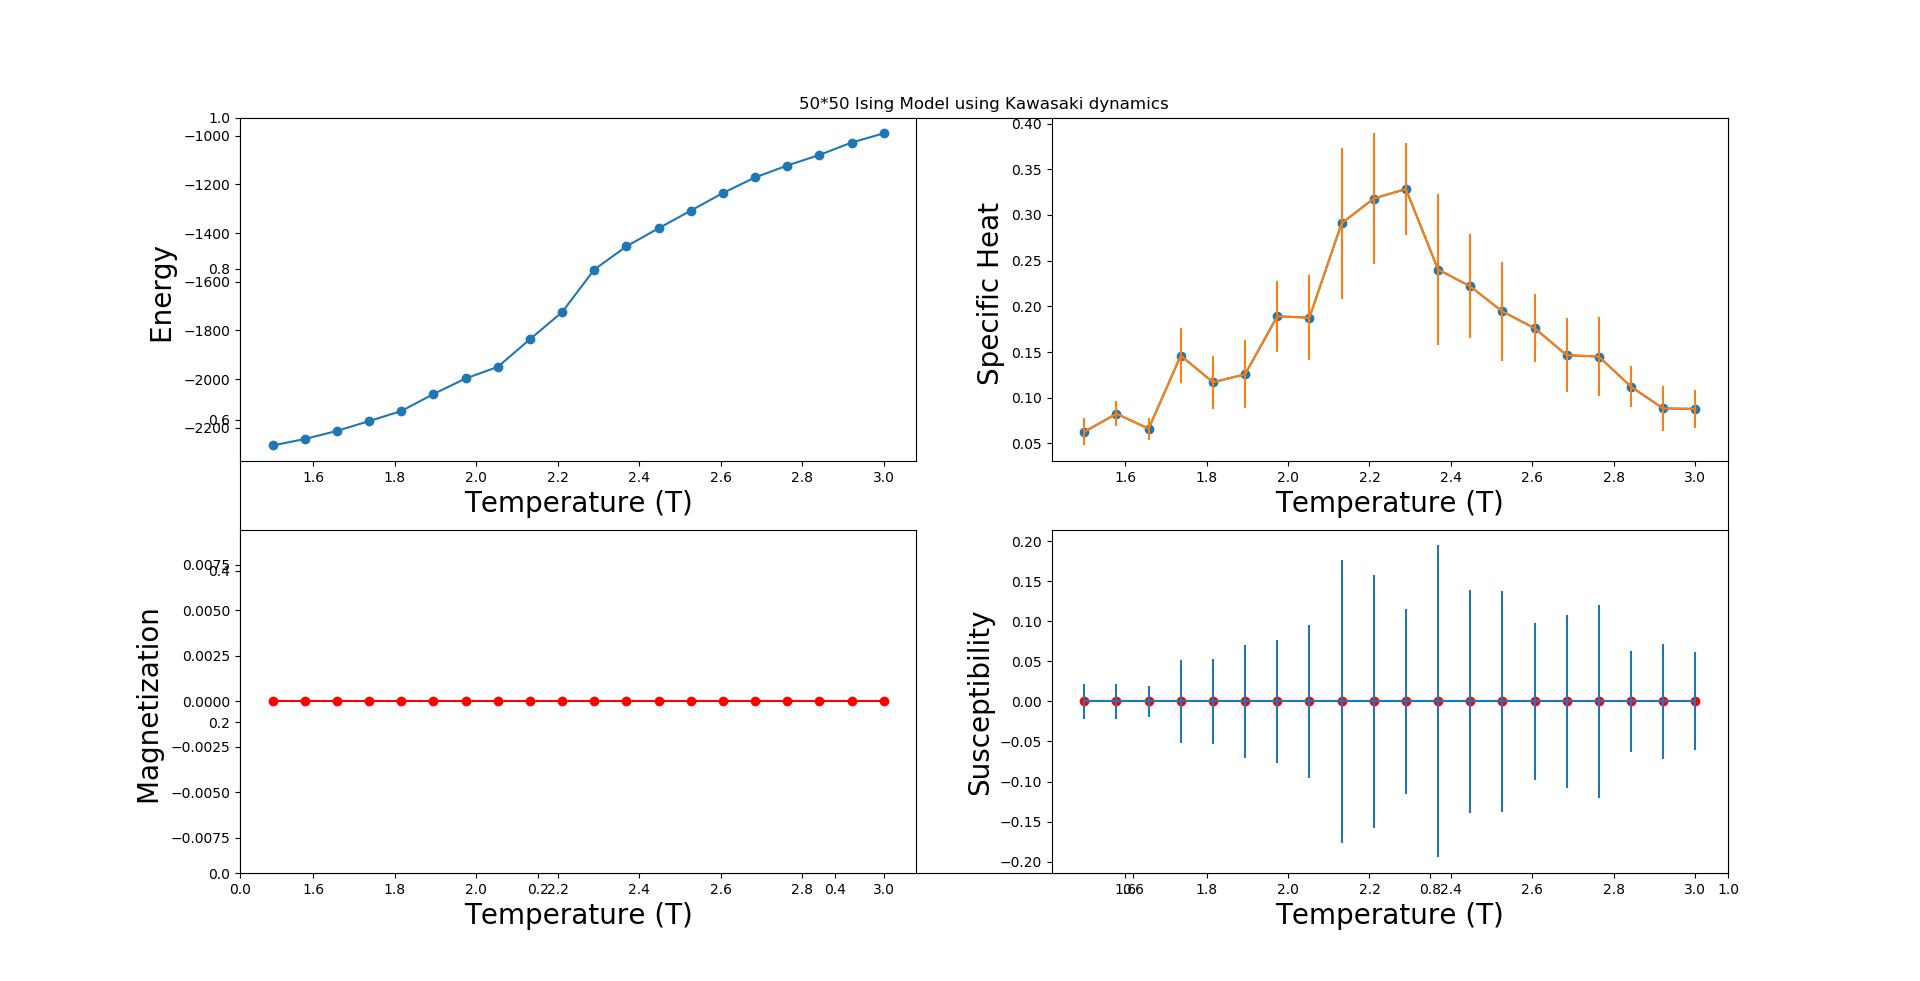
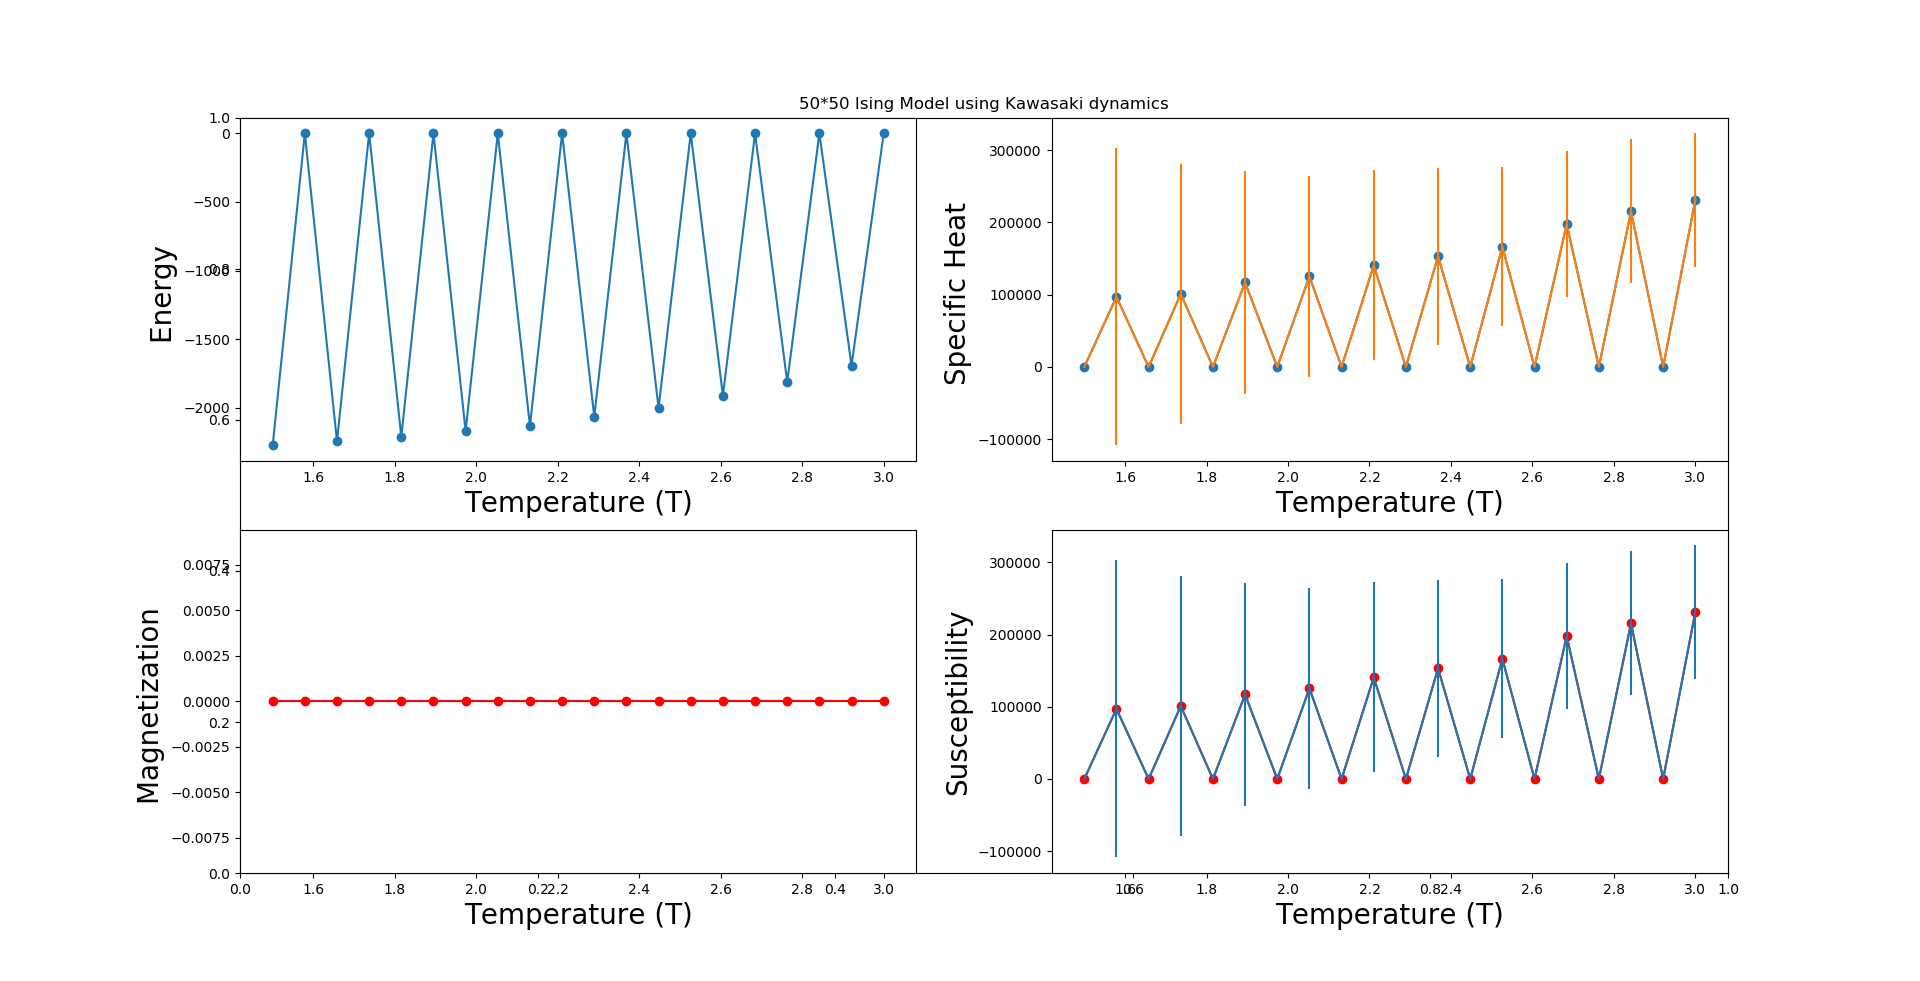
ITS ALIVE

diff --git a/main.py b/main.py
@@ -56,10 +56,10 @@ class Ising(object):
         self.equ(100)
         print(self.T)
         Es = np.zeros(n/10,dtype=float)
-        #Es[0] = self.totalEnergy()
-        Ms = np.zeros(n,dtype=float)
-        #Ms[0] = self.totalM()
-        for i in range(0,n):
+        Es[0] = self.totalEnergy()
+        Ms = np.zeros(n/10,dtype=float)
+        Ms[0] = self.totalM()
+        for i in range(1,n):
             self.sweep()
             if i%10==0:
                 Es[i/10] = self.totalEnergy()
@@ -153,22 +153,19 @@ class Ising(object):
         plt.ylabel("Energy ", fontsize=20);         plt.axis('tight');
 
         sp =  f.add_subplot(2, 2, 2 );
-        plt.scatter(T,C[:,0])
-        plt.plot(T,C[:,0])
-        plt.errorbar(T,C[:,0],yerr=C[:,1])
+
         plt.xlabel("Temperature (T)", fontsize=20);
         plt.ylabel("Specific Heat ", fontsize=20);         plt.axis('tight');
 
         sp =  f.add_subplot(2, 2, 3 );
         plt.scatter(T,abs(M[:,0]),color='r')
         plt.plot(T,abs(M[:,0]),color='r')
-
         plt.xlabel("Temperature (T)", fontsize=20);
         plt.ylabel("Magnetization ", fontsize=20);         plt.axis('tight');
 
         sp =  f.add_subplot(2, 2, 4 );
-        plt.scatter(T,abs(X[:,0]),color='r')
-        plt.plot(T,abs(X[:,0]),color='r')
+        plt.scatter(T,X[:,0])
+        plt.plot(T,X[:,0])
         plt.errorbar(T,X[:,0],yerr=X[:,1])
         plt.xlabel("Temperature (T)", fontsize=20);
         plt.ylabel("Susceptibility", fontsize=20);         plt.axis('tight');
